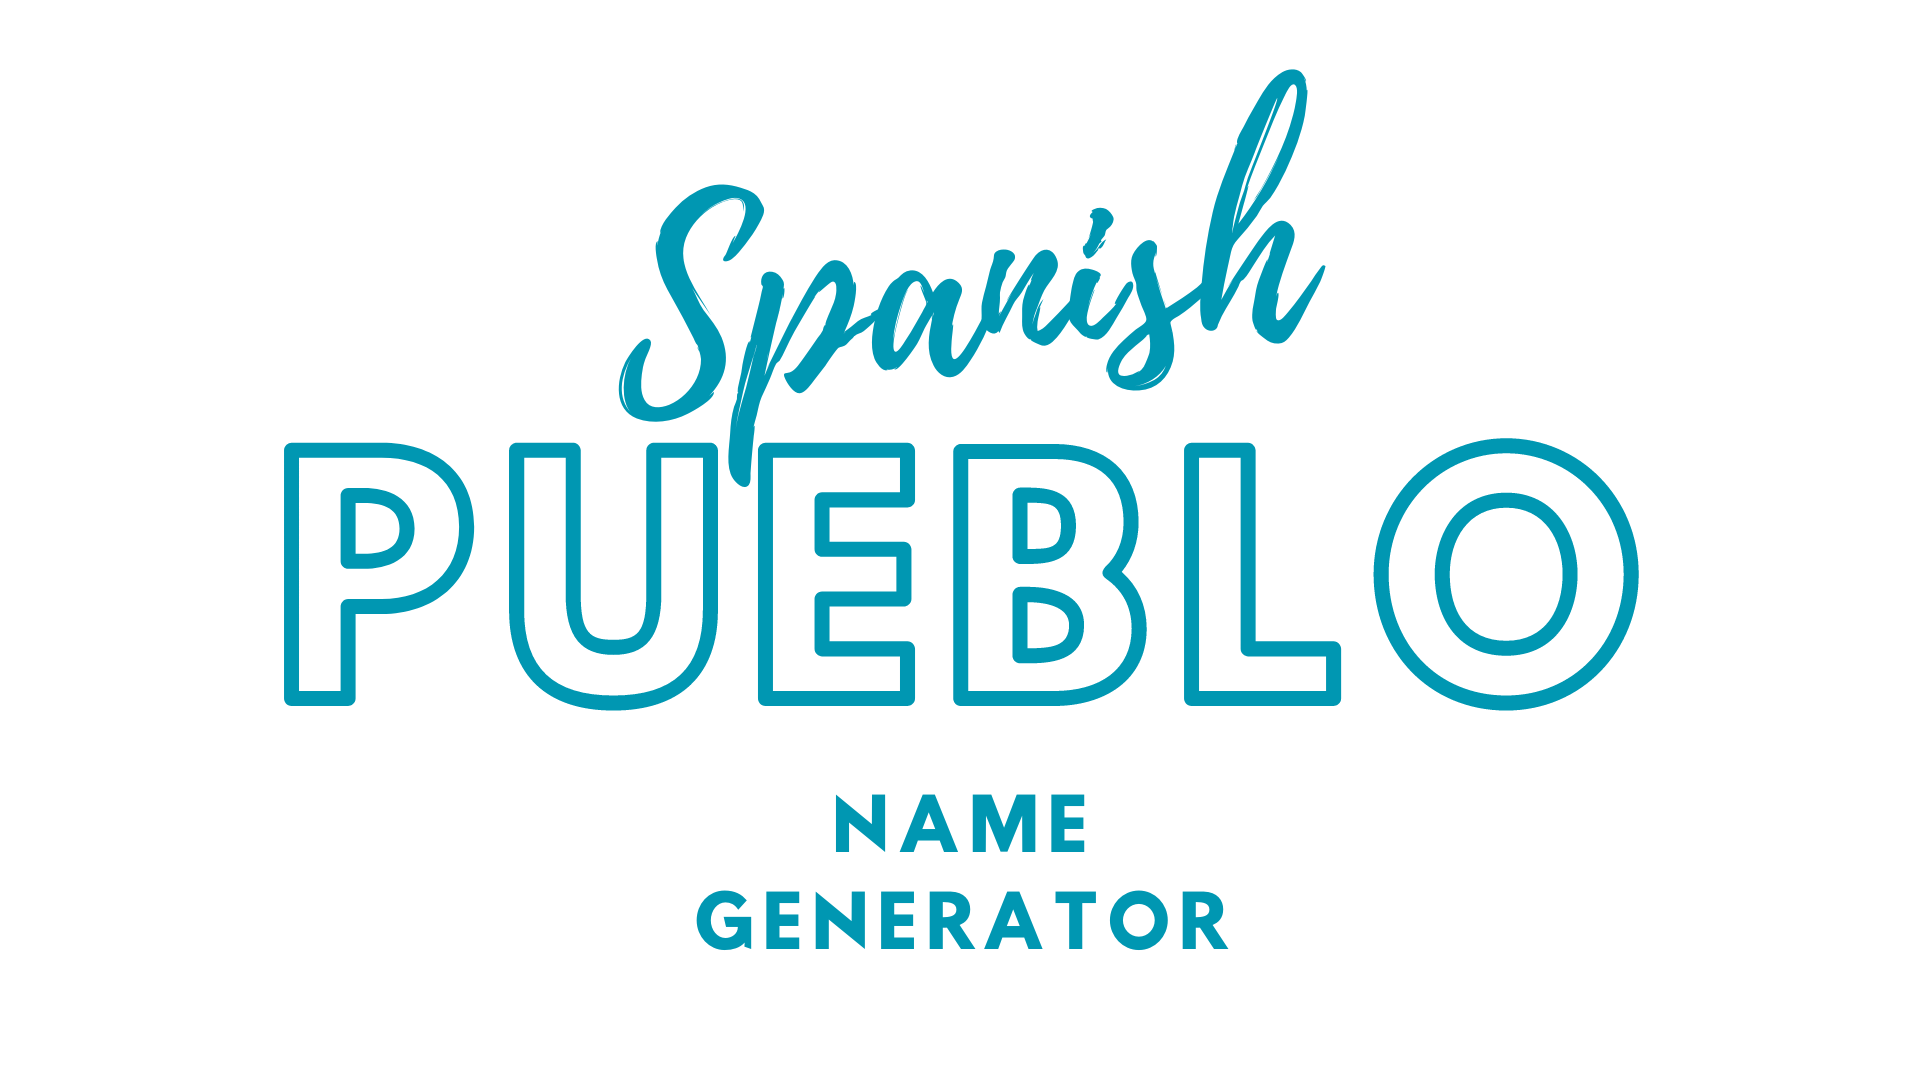
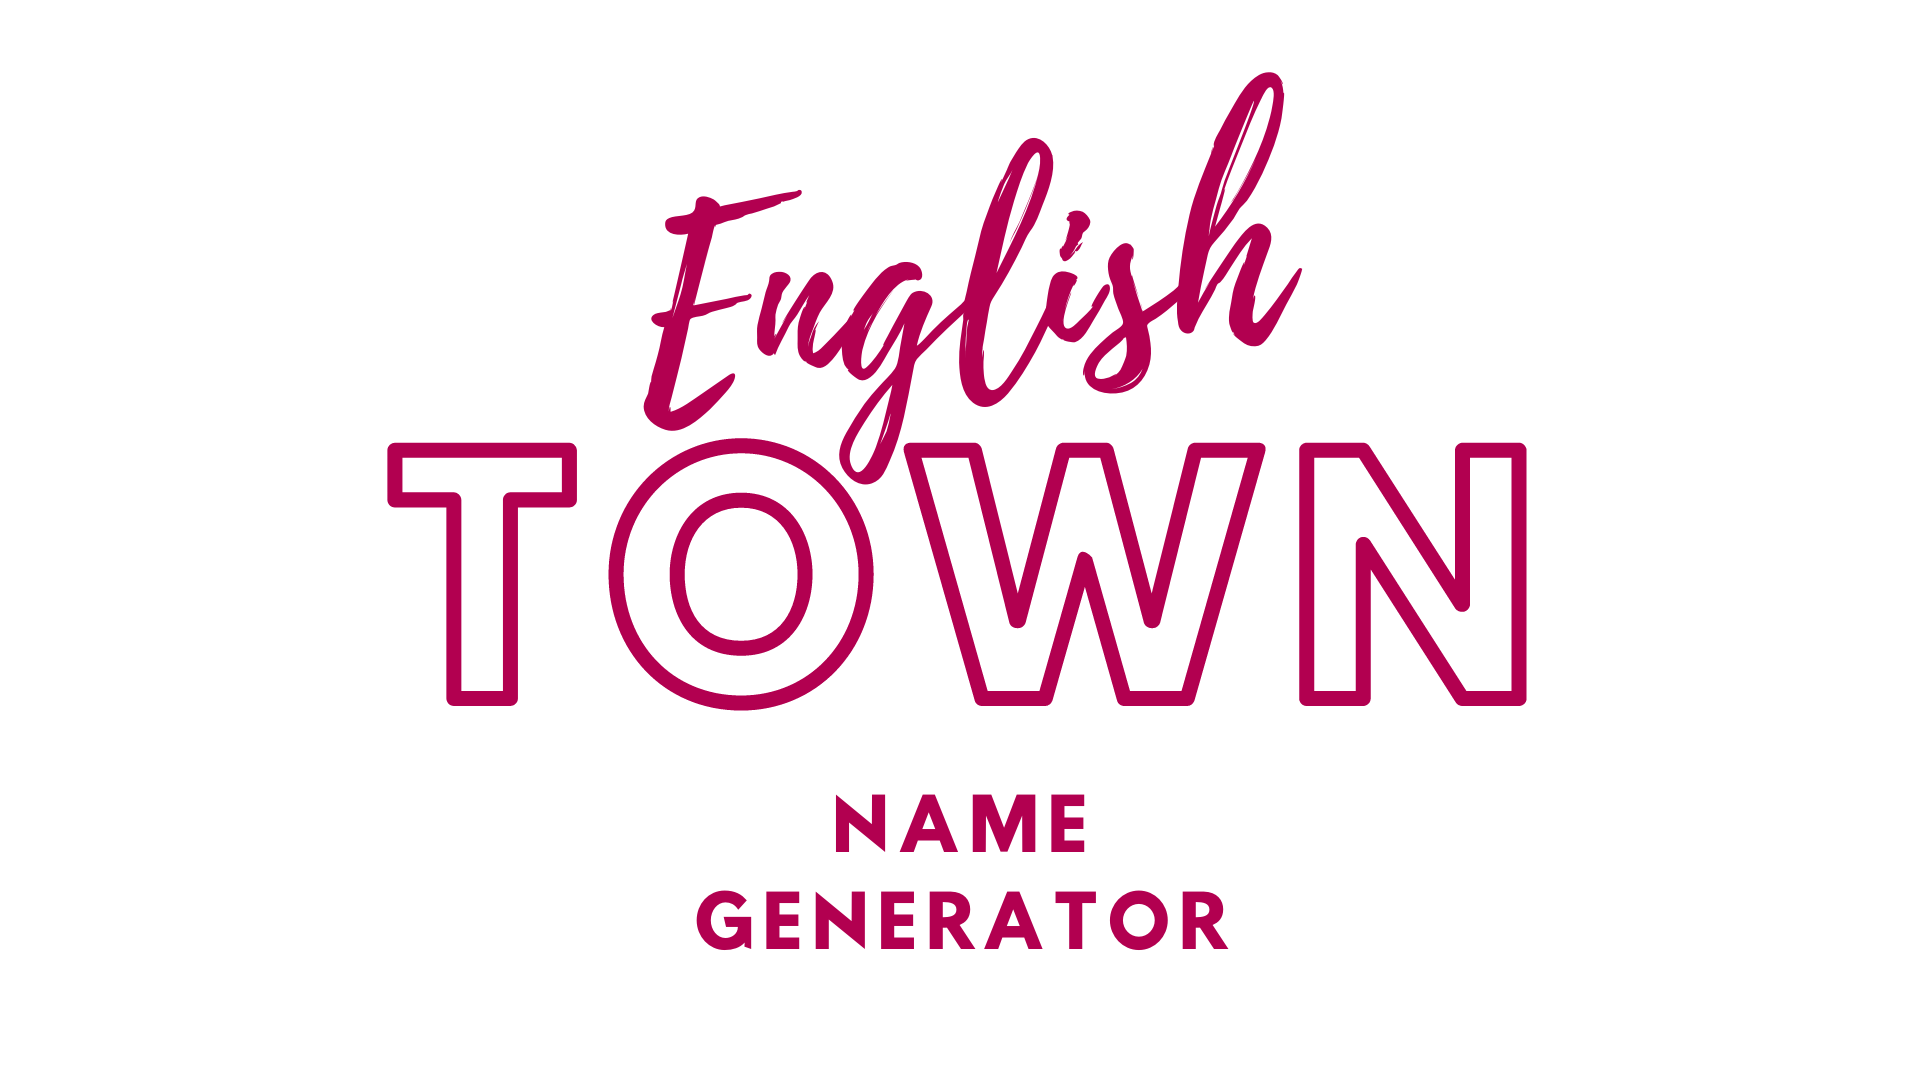
Adapt code from pueblo name generator to town name generator

Changed region(s): [[0.125, 0.0611, 0.875, 0.6722], [0.3438, 0.825, 0.6562, 0.8861], [0.4375, 0.7333, 0.5625, 0.7944]]

diff --git a/index.html b/index.html
@@ -3,7 +3,7 @@
     <meta charset="UTF-8" />
     <meta http-equiv="X-UA-Compatible" content="IE=edge" />
     <meta name="viewport" content="width=device-width, initial-scale=1.0" />
-    <title>Pueblo Name Generator 🏠</title>
+    <title>Town Name Generator 🏠</title>
     <link rel="stylesheet" href="style.css" type="text/css" media="screen" />
     <script src="./script.js"></script>
     <link rel="icon" type="image/x-icon" href="./assets/favicon.ico" />  </head>
@@ -12,7 +12,7 @@
     <header>
         <img class="title" src="./assets/title.png" />
     </header>
-    <a href="https://ireneairyn.github.io/pueblo-name-generator/" class="emoji-link" target="_blank">🏴</a>
+    <a href="https://ireneairyn.github.io/pueblo-name-generator/" class="emoji-link" target="_blank">🇪🇸</a>
     <a href="https://github.com/ireneairyn" class="logo-link" target="_blank"><img src="./assets/github-mark-white.png" alt="github"></a>
 
     <div class="pueblo-button">
@@ -21,7 +21,7 @@
     <div class="pueblo-sign">
       <div class="sign">
         <div class="border">
-          <div id="response">Bienvenido a...</div>
+          <div id="response">Welcome to...</div>
         </div>
         <div class="posts">
           <div class="vertical-line"></div>

diff --git a/style.css b/style.css
@@ -1,7 +1,7 @@
 body {
   margin: 0;
   height: 100%;
-  background-color: #0097b2;
+  background-color: #B20050;
 }
 
 header {
@@ -16,7 +16,7 @@ header {
   right: 0;
   bottom: 0;
   z-index: -1;
-  background-image: url("./assets/spanishpueblo.png");
+  background-image: url("./assets/englishtown.png");
   background-size: cover;
   background-repeat: no-repeat;
   background-position: center;
@@ -32,14 +32,14 @@ header {
 button {
   font-family: "Josefin Sans", sans-serif;
   font-size: 16px;
-  background-color: #3e9dcd;
+  background-color: #cd3e5f;
   border: white solid 2px;
   border-radius: 30px;
   color: white;
   font-weight: bold;
   cursor: pointer;
   padding: 10px;
-  outline: 6px solid #006c7f;
+  outline: 6px solid #B20050;
   outline-offset: 0px;
 }
 
@@ -57,7 +57,7 @@ button {
   text-justify: inter-word;
   text-transform: uppercase;
   background-color: white;
-  border: solid 6px red;
+  border: solid 6px black;
   border-radius: 8px;
   padding: 8px;
   font-size: 30px;
@@ -140,8 +140,8 @@ button {
   }
 
   button:hover {
-    background-color: red;
-    border: red solid 2px;
+    background-color: rgb(68, 145, 5);
+    border: rgb(68, 145, 5) solid 2px;
     outline: 6px solid white;
   }
 

diff --git a/README.md b/README.md
@@ -1,10 +1,10 @@
 # pueblo-name-generator 🏠
 
-Silly project to generate Spanish pueblo names!
+Silly project to generate English town names!
 
 ## Check it out 👀
 
-*  Click [here](https://ireneairyn.github.io/pueblo-name-generator/)!
+*  Click [here](https://ireneairyn.github.io/town-name-generator/)!
 
 ## Built With 🛠
 
